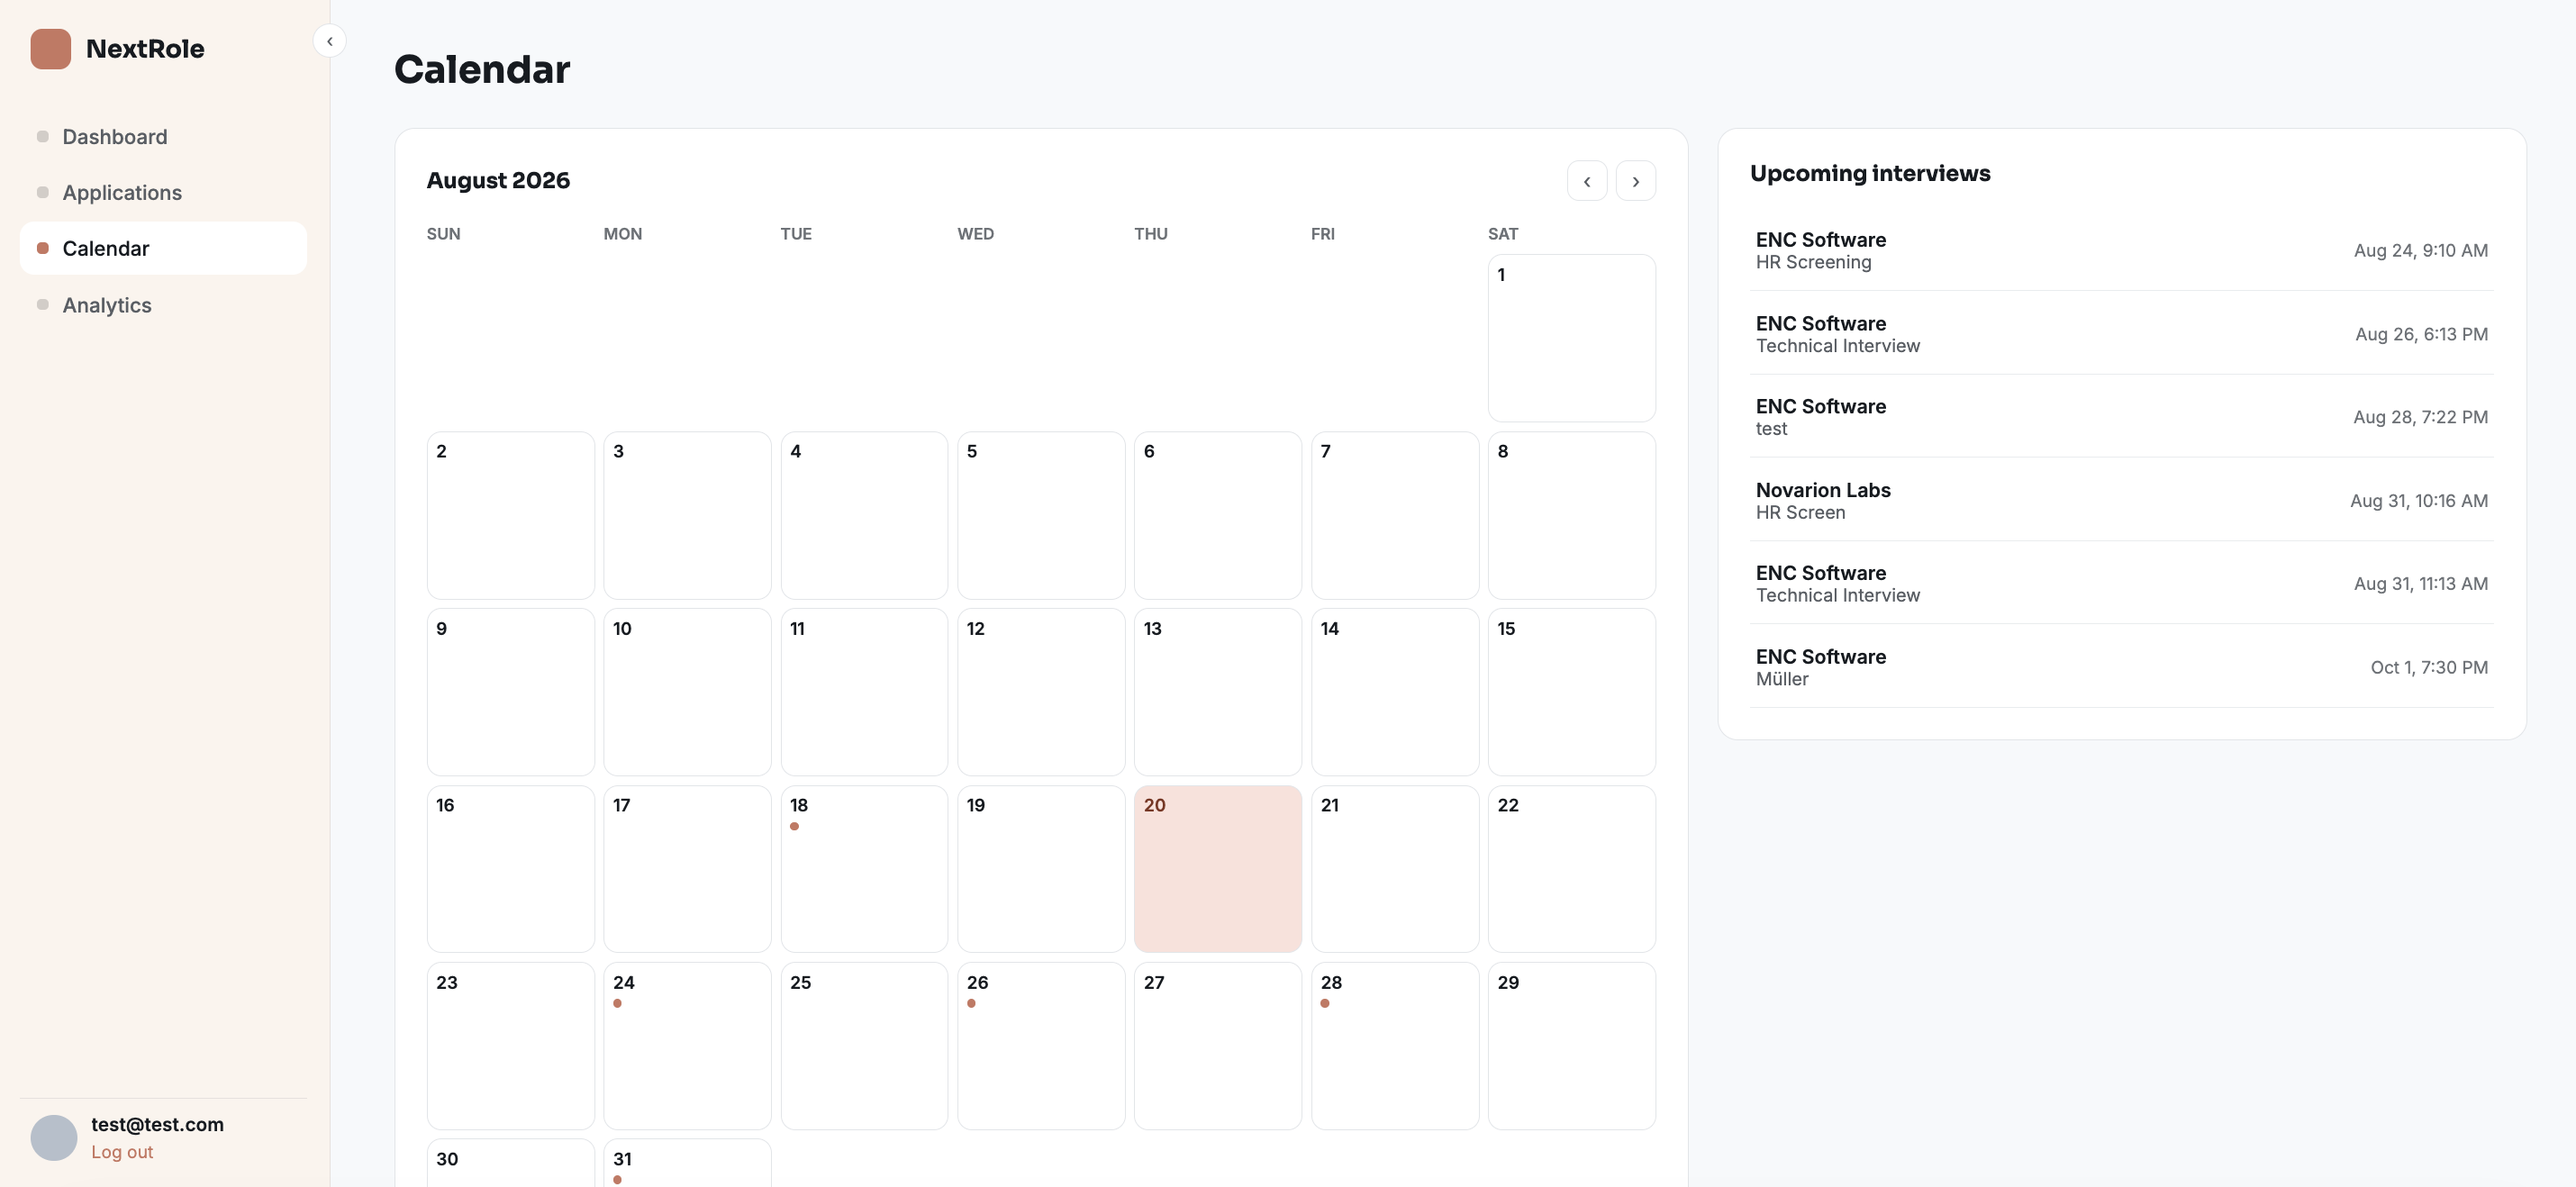
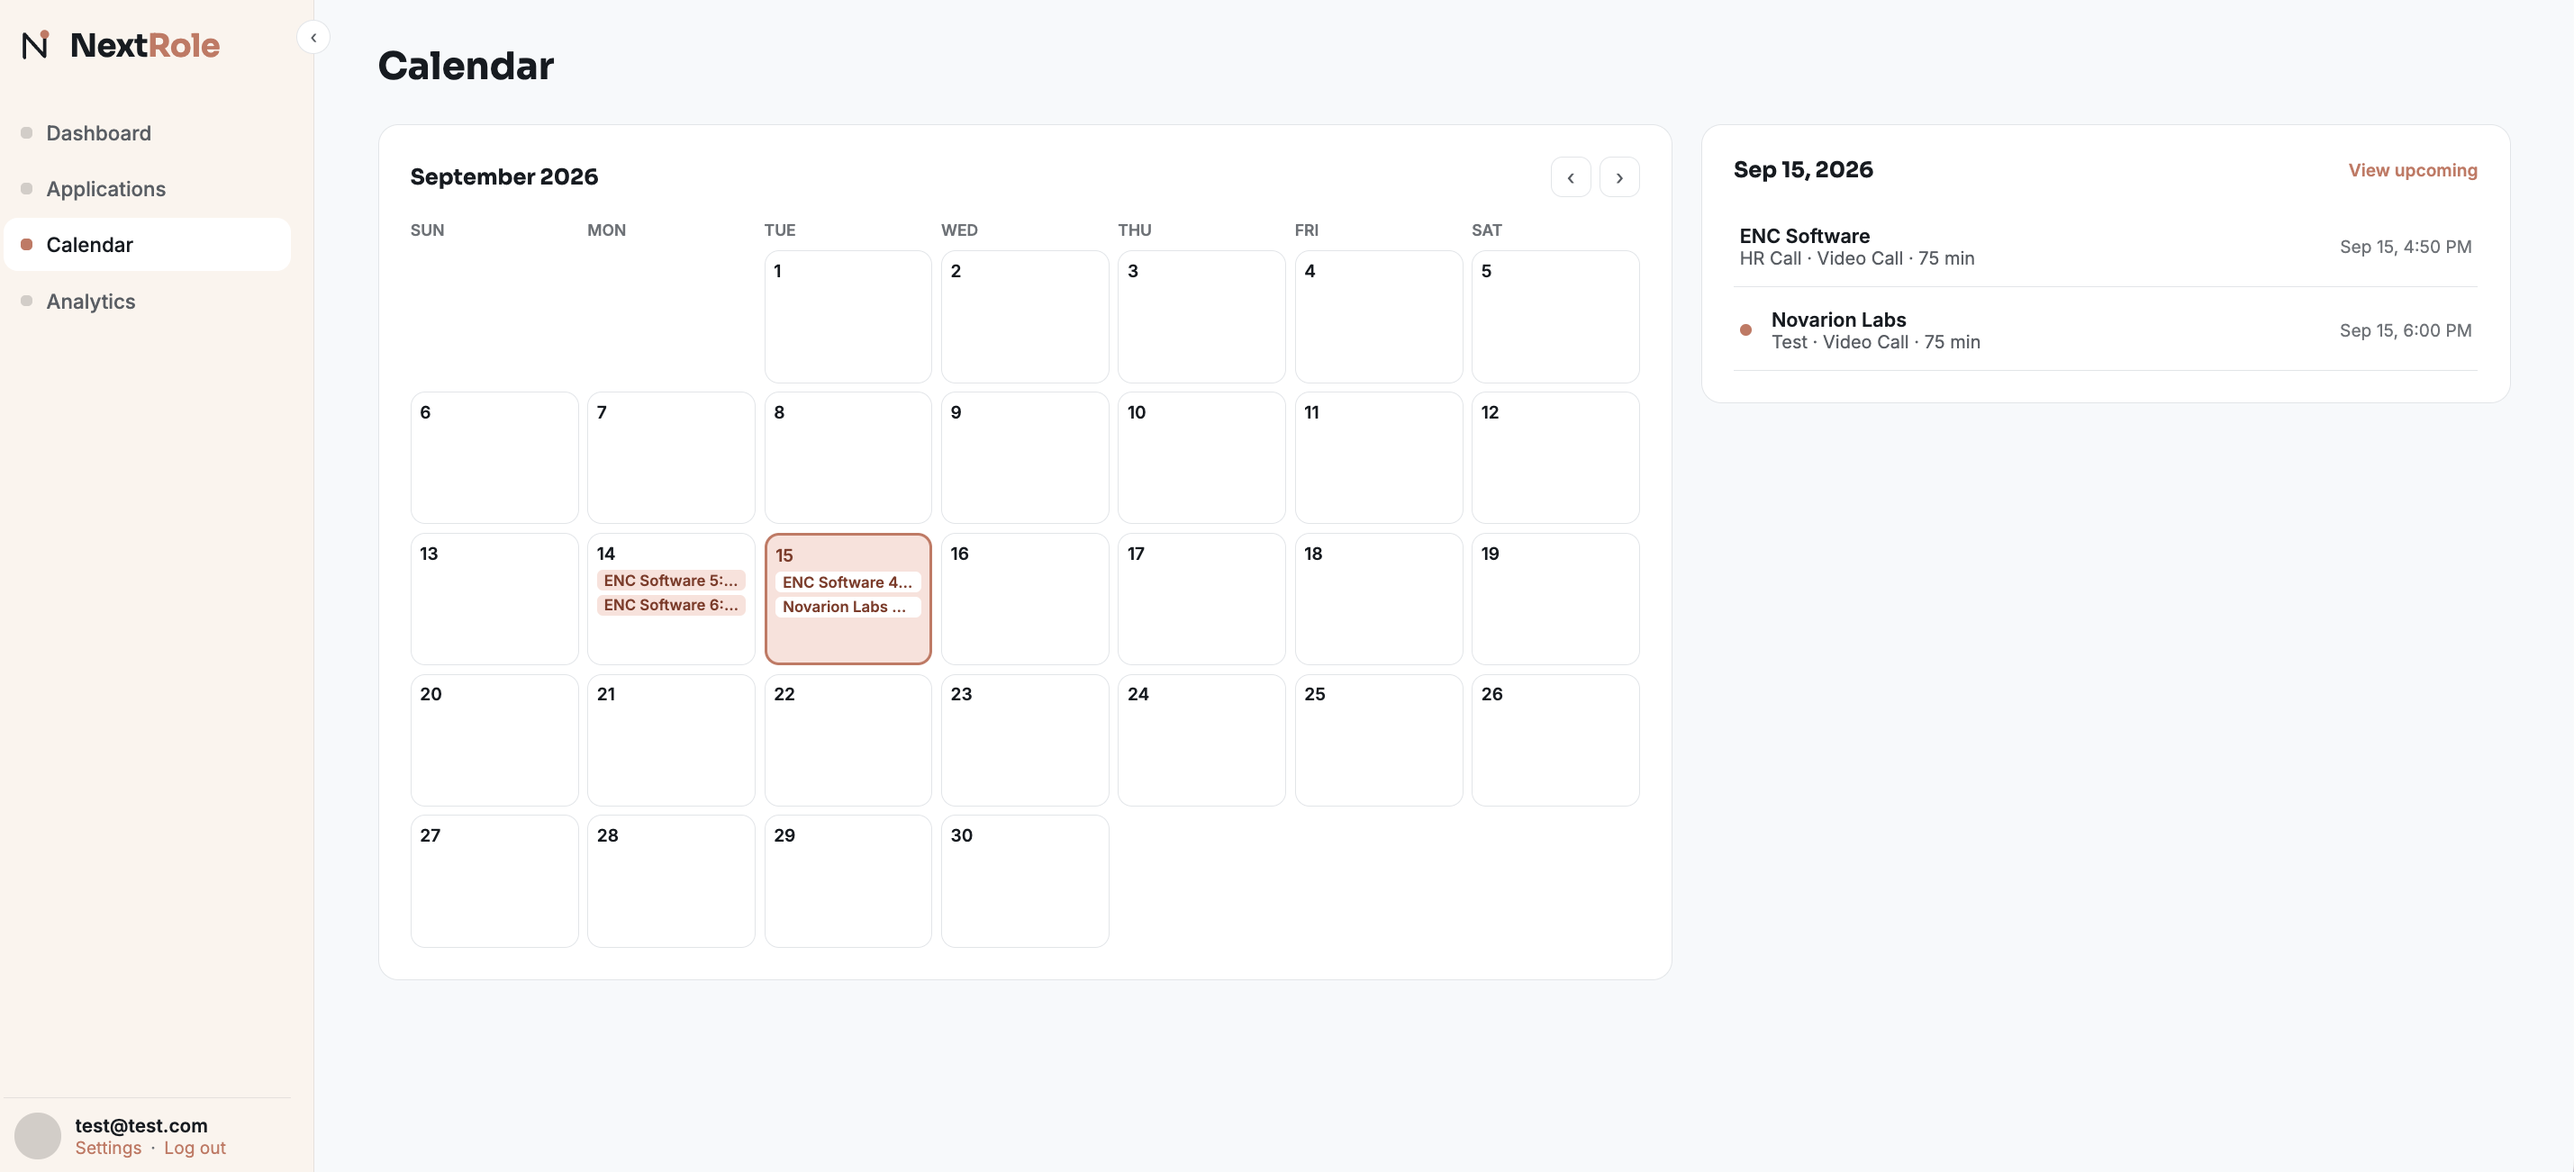
Update README.md (#53)
* Update README.md

* Add files via upload

diff --git a/README.md b/README.md
@@ -9,14 +9,18 @@ a calendar, and analytics.
 
 | | |
 |---|---|
-| ![Login](docs/screenshots/login.png) | ![Application overview](docs/screenshots/application-overview.png) |
-| Login | Application detail — Overview (job description, tech stack, key dates) |
-| ![Status history](docs/screenshots/status-history.png) | ![Interviews](docs/screenshots/interviews.png) |
-| Status History | Interviews |
-| ![Contacts](docs/screenshots/contacts.png) | ![Notes](docs/screenshots/notes.png) |
-| Contacts | Notes (markdown-lite formatting, newest/oldest sort) |
-| ![Calendar](docs/screenshots/calendar.png) | ![Analytics](docs/screenshots/analytics.png) |
-| Calendar | Analytics — funnel, conversion rate, top technologies, applications over time |
+| ![Login](docs/screenshots/login.png) | ![Dashboard](docs/screenshots/dashboard.png) |
+| Login | Dashboard — stat tiles, a reminder banner for the next interview, and a conflict warning when two overlap |
+| ![Application overview](docs/screenshots/application-overview.png) | ![Status history](docs/screenshots/status-history.png) |
+| Application detail — Overview (job description, tech stack, key dates) | Status History |
+| ![Interviews](docs/screenshots/interviews.png) | ![Contacts](docs/screenshots/contacts.png) |
+| Interviews — duration, mode, meeting link and a time-gated "Join meeting" | Contacts |
+| ![Notes](docs/screenshots/notes.png) | ![Calendar](docs/screenshots/calendar.png) |
+| Notes (markdown-lite formatting, newest/oldest sort) | Calendar — event banners on day cells, with the selected day's agenda |
+| ![Analytics](docs/screenshots/analytics.png) | ![Pipeline stages](docs/screenshots/pipeline-stages.png) |
+| Analytics — funnel, conversion rate, top technologies, applications over time, work mode | Pipeline stages — hide, reorder, recolour, or add your own |
+| ![Settings](docs/screenshots/settings.png) | |
+| Settings — language, theme, default currency, interview reminders | |
 
 ## Stack
 
@@ -25,30 +29,83 @@ a calendar, and analytics.
 | Frontend  | React + TypeScript (Vite), react-router-dom, react-i18next |
 | Backend   | Kotlin + Spring Boot |
 | Database  | PostgreSQL (Flyway migrations) |
-| Auth      | JWT (Spring Security, BCrypt), rate-limited via bucket4j |
+| Auth      | JWT access tokens + rotating refresh tokens (Spring Security, BCrypt), rate-limited via bucket4j |
+| Mobile    | Flutter (separate repo, in progress) |
 | Infra     | Docker / Docker Compose |
 | Testing   | JUnit + MockK (backend), Vitest + React Testing Library (frontend) |
 
 ## Current features
 
-- User registration & login (JWT-based, rate-limited)
-- Applications: full CRUD (company, role, location, work mode, salary range + currency, tech
-  stack, job description, application date, status), board (kanban) and table views with
-  search
-- Application detail page: Overview (inline-editable job description with lightweight markdown
-  rendering for `**bold**` and lists), Status History, Interviews, Contacts, and Notes (full
-  CRUD, newest/oldest sort toggle) — all with edit/delete and toast feedback
-- Dashboard: stat tiles, upcoming interviews, recent activity, pipeline overview
-- Calendar: month grid with upcoming interviews
-- Analytics: pipeline funnel, stage conversion rate, top technologies, applications over time,
-  applications by work mode
-- Custom confirm dialogs for all delete actions (no native browser popups)
-- i18n infrastructure (react-i18next)
+**Applications**
+- Full CRUD: company, role, location, work mode, salary range + currency, tech stack, job
+  description, application date, status
+- Board (kanban) and table views, with search, a filters popover, and column sorting
+- Customisable pipeline stages — add, rename, reorder, recolour and hide stages; applications
+  are reassigned when a stage is removed
+
+**Application detail**
+- Overview with inline-editable job description (lightweight markdown for `**bold**` and lists),
+  tech stack, and key dates
+- Status History, Interviews, Contacts and Notes — all full CRUD with edit/delete and toast
+  feedback
+
+**Interviews**
+- Round, interviewer, scheduled time, duration, mode and meeting link
+- A single "Join meeting" action that becomes live near the scheduled start
+- **Double-booking detection**: overlapping interviews are flagged on the interview form (as you
+  pick a time), on interview cards, on the application overview and on the Dashboard. Conflicts
+  are resolved server-side across every upcoming interview, so a clash with one too far out to be
+  listed is still reported. It is a warning, never a block — "Save anyway" is always available.
+
+**Dashboard**
+- Stat tiles, upcoming interviews, recent activity, pipeline overview
+- Configurable interview reminder banner (off / always / 3, 12 or 24 hours ahead) with snooze
+
+**Calendar**
+- Month grid with per-day event banners, plus the day's detail
+
+**Analytics**
+- Pipeline funnel, stage conversion rate, top technologies, applications over time, applications
+  by work mode
+
+**Settings and platform**
+- Language (English, German, Turkish), default currency, light/dark theme
+- Custom confirm dialogs for every destructive action — no native browser popups
 
 Not yet built: the job-description analyzer (paste a posting, extract required
-languages/frameworks/experience/skill-match)
+languages / frameworks / experience / skill-match). A Flutter mobile client is in progress in a
+separate repository.
+
+## Auth model
+
+Login and registration return a short-lived **access token** (15 minutes) and a longer-lived
+**refresh token** (30 days). Refresh tokens **rotate**: every refresh issues a new one and
+revokes the one presented, so a stolen token is usable at most once. Replaying an
+already-rotated token is treated as a breach and revokes every token for that user. Only a
+SHA-256 hash of each token is stored.
+
+Clients should refresh on a 401 and retry once. Because refresh tokens are single-use,
+**concurrent 401s must share a single in-flight refresh** — two parallel refreshes would replay a
+rotated token and end the session.
+
+Both lifetimes are overridable via `JWT_EXPIRATION_MS` and `JWT_REFRESH_EXPIRATION_MS`; shortening
+the first is a convenient way to exercise the refresh path without waiting.
 
 ## Getting started
+
+### Prerequisites
+
+- **JDK 21 or 22** for the backend. Gradle 8.10 does not support Java 25 and fails with a bare
+  `* What went wrong: 25.0.2`, which gives no hint that the JDK is the problem. Check with
+  `java -version`; if you have a newer JDK as your default, point Gradle at a supported one:
+
+  ```bash
+  JAVA_HOME=$(/usr/libexec/java_home -v 22) ./gradlew build
+  ```
+
+  Or set `org.gradle.java.home` in `backend/gradle.properties` to avoid passing it every time.
+- **Node 20+** and npm for the frontend (Vite 8's minimum; developed on Node 24).
+- **Docker** if you want the Compose setup below.
 
 ### Option A — Docker Compose (backend + database)
 
@@ -67,7 +124,7 @@ cd backend
 ./gradlew bootRun
 ```
 
-Requires a local PostgreSQL instance matching the connection details in
+Requires JDK 21/22 (see prerequisites above) and a local PostgreSQL instance matching the connection details in
 `backend/src/main/resources/application.yml` (or override via `DB_URL`, `DB_USERNAME`,
 `DB_PASSWORD` env vars).
 
@@ -85,9 +142,13 @@ default (override with `VITE_API_BASE_URL`, see `frontend/.env.example`).
 ## Testing
 
 ```bash
-cd backend && ./gradlew test
-cd frontend && npm test
+cd backend && ./gradlew test        # JUnit + MockK
+cd frontend && npm test             # Vitest + React Testing Library
+cd frontend && npx tsc -b --noEmit  # typecheck
 ```
+
+If `./gradlew test` fails immediately with `* What went wrong: 25.0.2`, your default JDK is too
+new — see Prerequisites.
 
 ## Project layout
 
@@ -98,3 +159,5 @@ NextRole/
   docs/       Screenshots and other documentation assets
   docker-compose.yml
 ```
+
+The Flutter mobile client lives in its own repository and consumes this same API.
